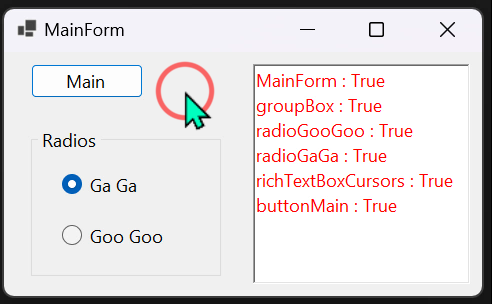
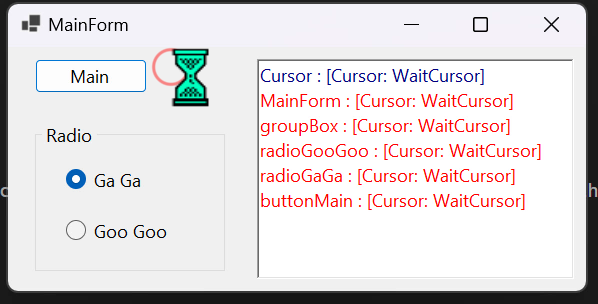
prelim readme

diff --git a/cursor-extravaganza/MainForm.cs b/cursor-extravaganza/MainForm.cs
@@ -6,10 +6,18 @@ namespace cursor_extravaganza
     public partial class MainForm : Form
     {
         public MainForm() => InitializeComponent();
-        protected async override void OnLoad(EventArgs e)
+        protected override void OnLoad(EventArgs e)
         {
             base.OnLoad(e);
+            IterateControlTree(
+                this,
+                (control) => control.CursorChanged += (sender, e) => displayCursors());
+
             IterateControlTree(this, (control) => control.MouseDown += onAnyMouseDown);
+            _ = detectCurrentCursorChanged();
+        }
+        private async Task detectCurrentCursorChanged()
+        {
             var cts = new CancellationTokenSource();
             Disposed += (sender, e) => cts.Cancel();
             while (!cts.IsCancellationRequested)
@@ -18,6 +26,8 @@ namespace cursor_extravaganza
                 CurrentCursor = Cursor.Current;
             }
         }
+
+        private void onAnyCursorChanged(object? sender, EventArgs e) => displayCursors();
 
         Cursor? _CurrentCursor = Cursor.Current;
         public Cursor? CurrentCursor
@@ -32,7 +42,7 @@ namespace cursor_extravaganza
                 }
             }
         }
-        // Set a wait cursor on the control that is clicked.
+        // Set cursor on the control that is clicked.
         private async void onAnyMouseDown(object? sender, MouseEventArgs e)
         {
             if (sender is Control control)
@@ -58,7 +68,6 @@ namespace cursor_extravaganza
             }
         }
         const int DURATION = 2500;
-        int _rawCount = 0;
         private void displayCursors()
         {
             richTextBoxCursors.Clear();

diff --git a/cursor-extravaganza/MainForm.Designer.cs b/cursor-extravaganza/MainForm.Designer.cs
@@ -65,7 +65,7 @@
             this.groupBox.Size = new System.Drawing.Size(190, 150);
             this.groupBox.TabIndex = 2;
             this.groupBox.TabStop = false;
-            this.groupBox.Text = "Radios";
+            this.groupBox.Text = "Radio";
             // 
             // radioGooGoo
             // 

diff --git a/README.md b/README.md
@@ -1,0 +1,125 @@
+After reading the body of your post, Selvin's observation seems worth considering. So what if this _is_ an [X-Y Problem](https://meta.stackexchange.com/a/66378)? What alternative is there to the non-UI thread you now have coded? 
+
+Here's a strategy I tested that I hope might get you closer to the behavior you want. Since `Control` fires an event for `CursorChanged`, if we were to iterate the control tree and attach a handler to every control this would "almost" eliminate the need to do continuous polling. The `OnLoad` override is a good place to do this.
+
+    public partial class MainForm : Form
+    {
+        public MainForm() => InitializeComponent();
+        protected override void OnLoad(EventArgs e)
+        {
+            base.OnLoad(e);
+            IterateControlTree(
+                this,
+                (control) => control.CursorChanged += (sender, e) => displayCursors());
+        }
+
+Where: 
+
+    internal void IterateControlTree(Control control, Action<Control> fx)
+    {
+        fx(control);
+        foreach (Control child in control.Controls)
+        {
+            IterateControlTree(child, fx);
+        }
+    }
+
+    private void displayCursors()
+    {
+        richTextBoxCursors.Clear();
+        richTextBoxCursors.SelectionColor = Color.Navy;
+        richTextBoxCursors.AppendText($"Cursor : {Cursor.Current} {Environment.NewLine}");
+        IterateControlTree(this, (control) => localAddEntry(control));
+
+        void localAddEntry(Control control)
+        {
+            if (!(control is RichTextBox)) // Exempt the RichTextBox
+            {
+                var isDefault = control.Cursor.Equals(Cursors.Default);
+                Color color = isDefault ? Color.Green : Color.Red;
+                richTextBoxCursors.SelectionColor = color;
+                richTextBoxCursors.AppendText($"{control.Name} : {control.Cursor} {Environment.NewLine}");
+            }
+        }
+    }
+
+***
+**Test (part 1)** 
+
+For this part of the test, use the right-click option.
+
+[![right-click option][1]][1]
+
+This covers the posted test condition using `this.Cursor = Cursors.AppStarting`. Setting up this test requires another control tree iteration to attach the `MouseDown` event. 
+
+    IterateControlTree(this, (control) => control.MouseDown += onAnyMouseDown);
+
+Where:
+ 
+    // Set cursor on the control that is clicked.
+    private async void onAnyMouseDown(object? sender, MouseEventArgs e)
+    {
+        if (sender is Control control)
+        {
+            switch (e.Button)
+            {
+                case MouseButtons.Left:
+                    control.UseWaitCursor = true;
+                    await Task.Delay(DURATION);
+                    control.UseWaitCursor = false;
+                    break;
+                case MouseButtons.Right:
+                    control.Cursor = Cursors.AppStarting;
+                    await Task.Delay(DURATION);
+                    control.Cursor = Cursors.Default;
+                    break;
+            }
+            // Hack to redraw the cursor
+            var positionB4 = MousePosition;
+            Cursor.Position = new Point(positionB4.X + 1, positionB4.Y);
+            Cursor.Position = positionB4;
+            displayCursors();
+        }
+    }
+
+***
+So far, so good, but there _is_ one small issue: The `CursorChanged` event doesn't fire when the `UseWaitCursor` property is used to change the cursor! So now we _do_ have to poll for changes to `Cursor.Current`, but with an improved method that will also be called in the `OnLoad` override..
+
+    private async Task detectCurrentCursorChanged()
+    {
+        var cts = new CancellationTokenSource();
+        Disposed += (sender, e) => cts.Cancel();
+        while (!cts.IsCancellationRequested)
+        {
+            await Task.Delay(100);
+            CurrentCursor = Cursor.Current;
+        }
+    }
+
+    private void onAnyCursorChanged(object? sender, EventArgs e) => displayCursors();
+
+    Cursor? _CurrentCursor = Cursor.Current;
+    public Cursor? CurrentCursor
+    {
+        get => _CurrentCursor;
+        set
+        {
+            if (!Equals(_CurrentCursor, value))
+            {
+                _CurrentCursor = value;
+                displayCursors();
+            }
+        }
+    }
+
+
+***
+**Test (part 2)** 
+
+Using the left-click option and `UseWaitCursor` we can observe that the control that is clicked _and_ all of its child controls receive the wait cursor. This means, of course, that the display will vary depending on which control is clicked.
+
+[![location-dependent results][2]][2]
+
+
+  [1]: https://i.stack.imgur.com/hVQvm.png
+  [2]: https://i.stack.imgur.com/DPp7w.png
